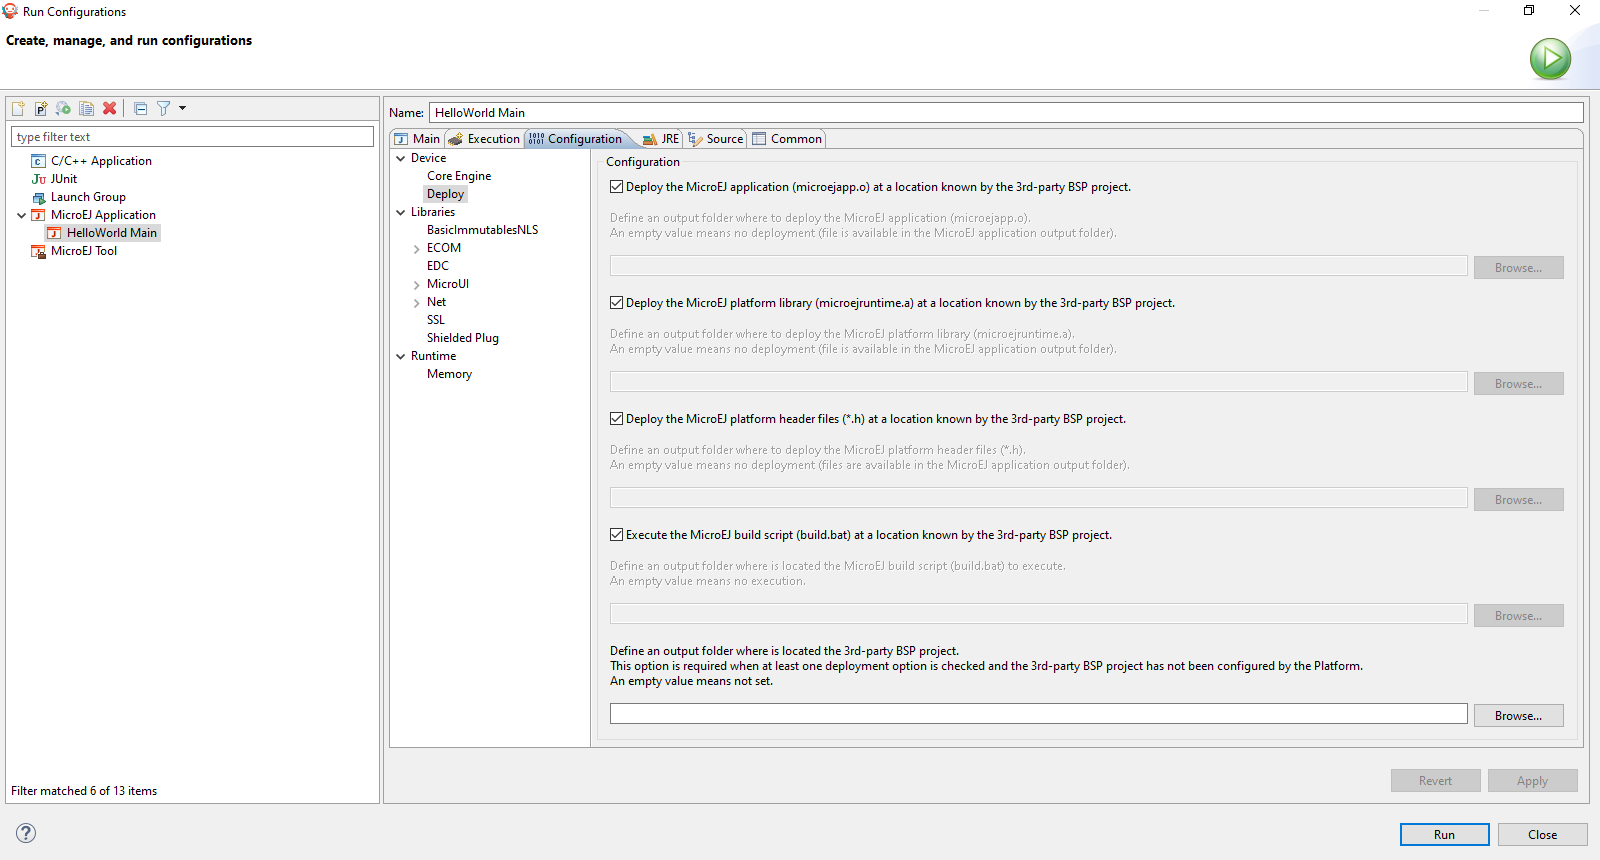
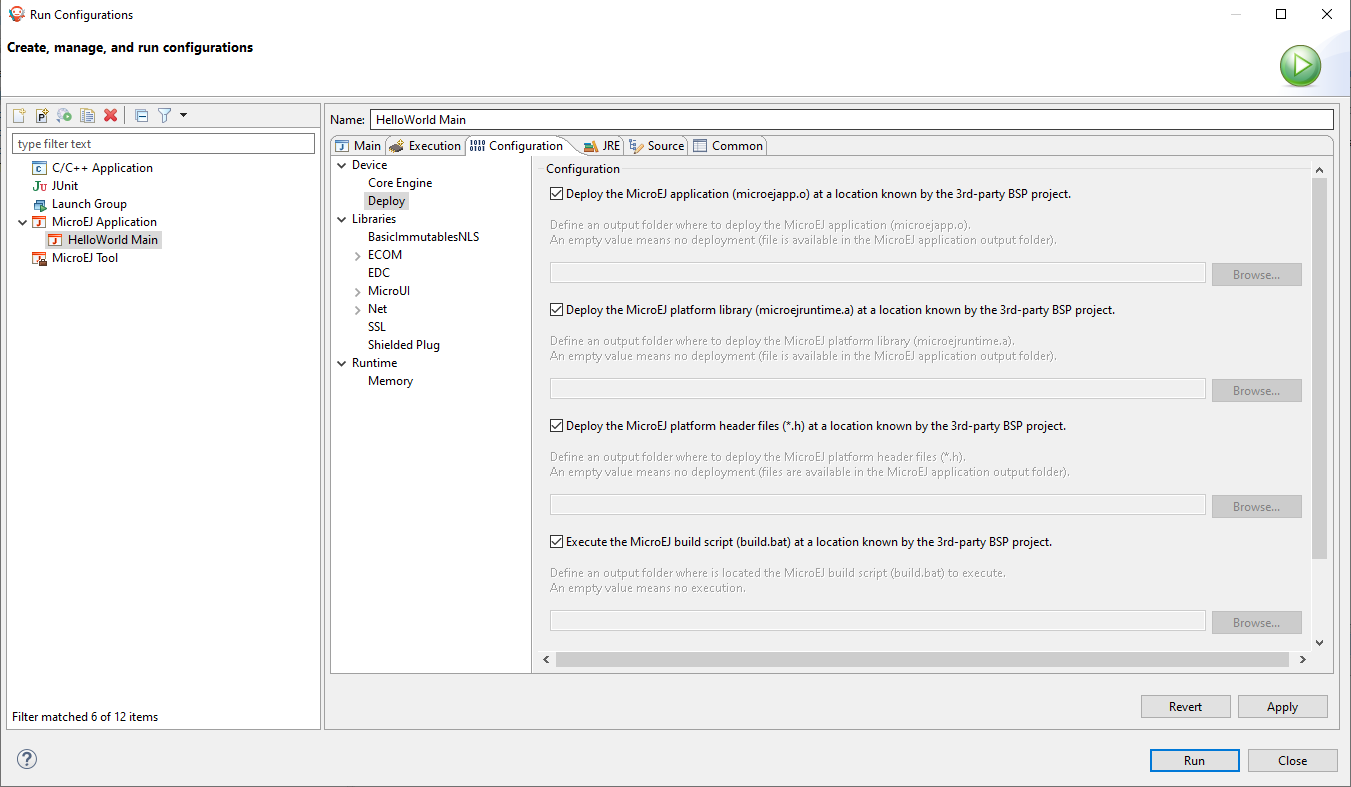
M0090IDE-3758 update hardware device part

diff --git a/ApplicationDeveloperGuide/gettingStartedApp.rst b/ApplicationDeveloperGuide/gettingStartedApp.rst
@@ -137,23 +137,24 @@ Run on the Hardware Device
 
 
 
-In case of full BSP connection, the application link be triggered by executing the :ref:`build script <bsp_connection_build_script>` file.
+In case of full BSP connection, the application link can be triggered by executing the :ref:`build script <bsp_connection_build_script>` file.
 
 - Open :guilabel:`configuration` tab and select :guilabel:`Device` > :guilabel:`Deploy`.
-- By default the options to deploy the application, runtime library and header files are already set. Check the :ref:`BSP connection option <_bsp_connection_options>` :guilabel:`deploy.bsp.microejscript`.
+  
+- By default the options to deploy the application, runtime library and header files are already set. Check the :ref:`BSP connection option <bsp_connection_options>` :guilabel:`deploy.bsp.microejscript`.
 
-.. figure:: images/bsp-options
-   :alt: BSP connection option
+.. figure:: images/bsp-options.png
+   :alt: BSP connection options
    :align: center
-   :width: 698px
-   :height: 552px
+   :width: 1351px
+   :height: 787px
 
-   BSP connection option
+   BSP connection options
 
-- Click :guilabel:`Apply` and :guilabel:`Run`.
+- Click :guilabel:`Apply` and :guilabel:`Run` : the ``application.out`` is produced.
   
 
-More options can be defined to run a MicroEJ Standalone Application on an hardware device, see :ref:`Application options <application_options>`
+More options can be defined to run a MicroEJ Standalone Application on an hardware device, see :ref:`Application options <application_options>`.
 
    | Copyright 2008-2022, MicroEJ Corp. Content in this space is free 
    for read and redistribute. Except if otherwise stated, modification 
